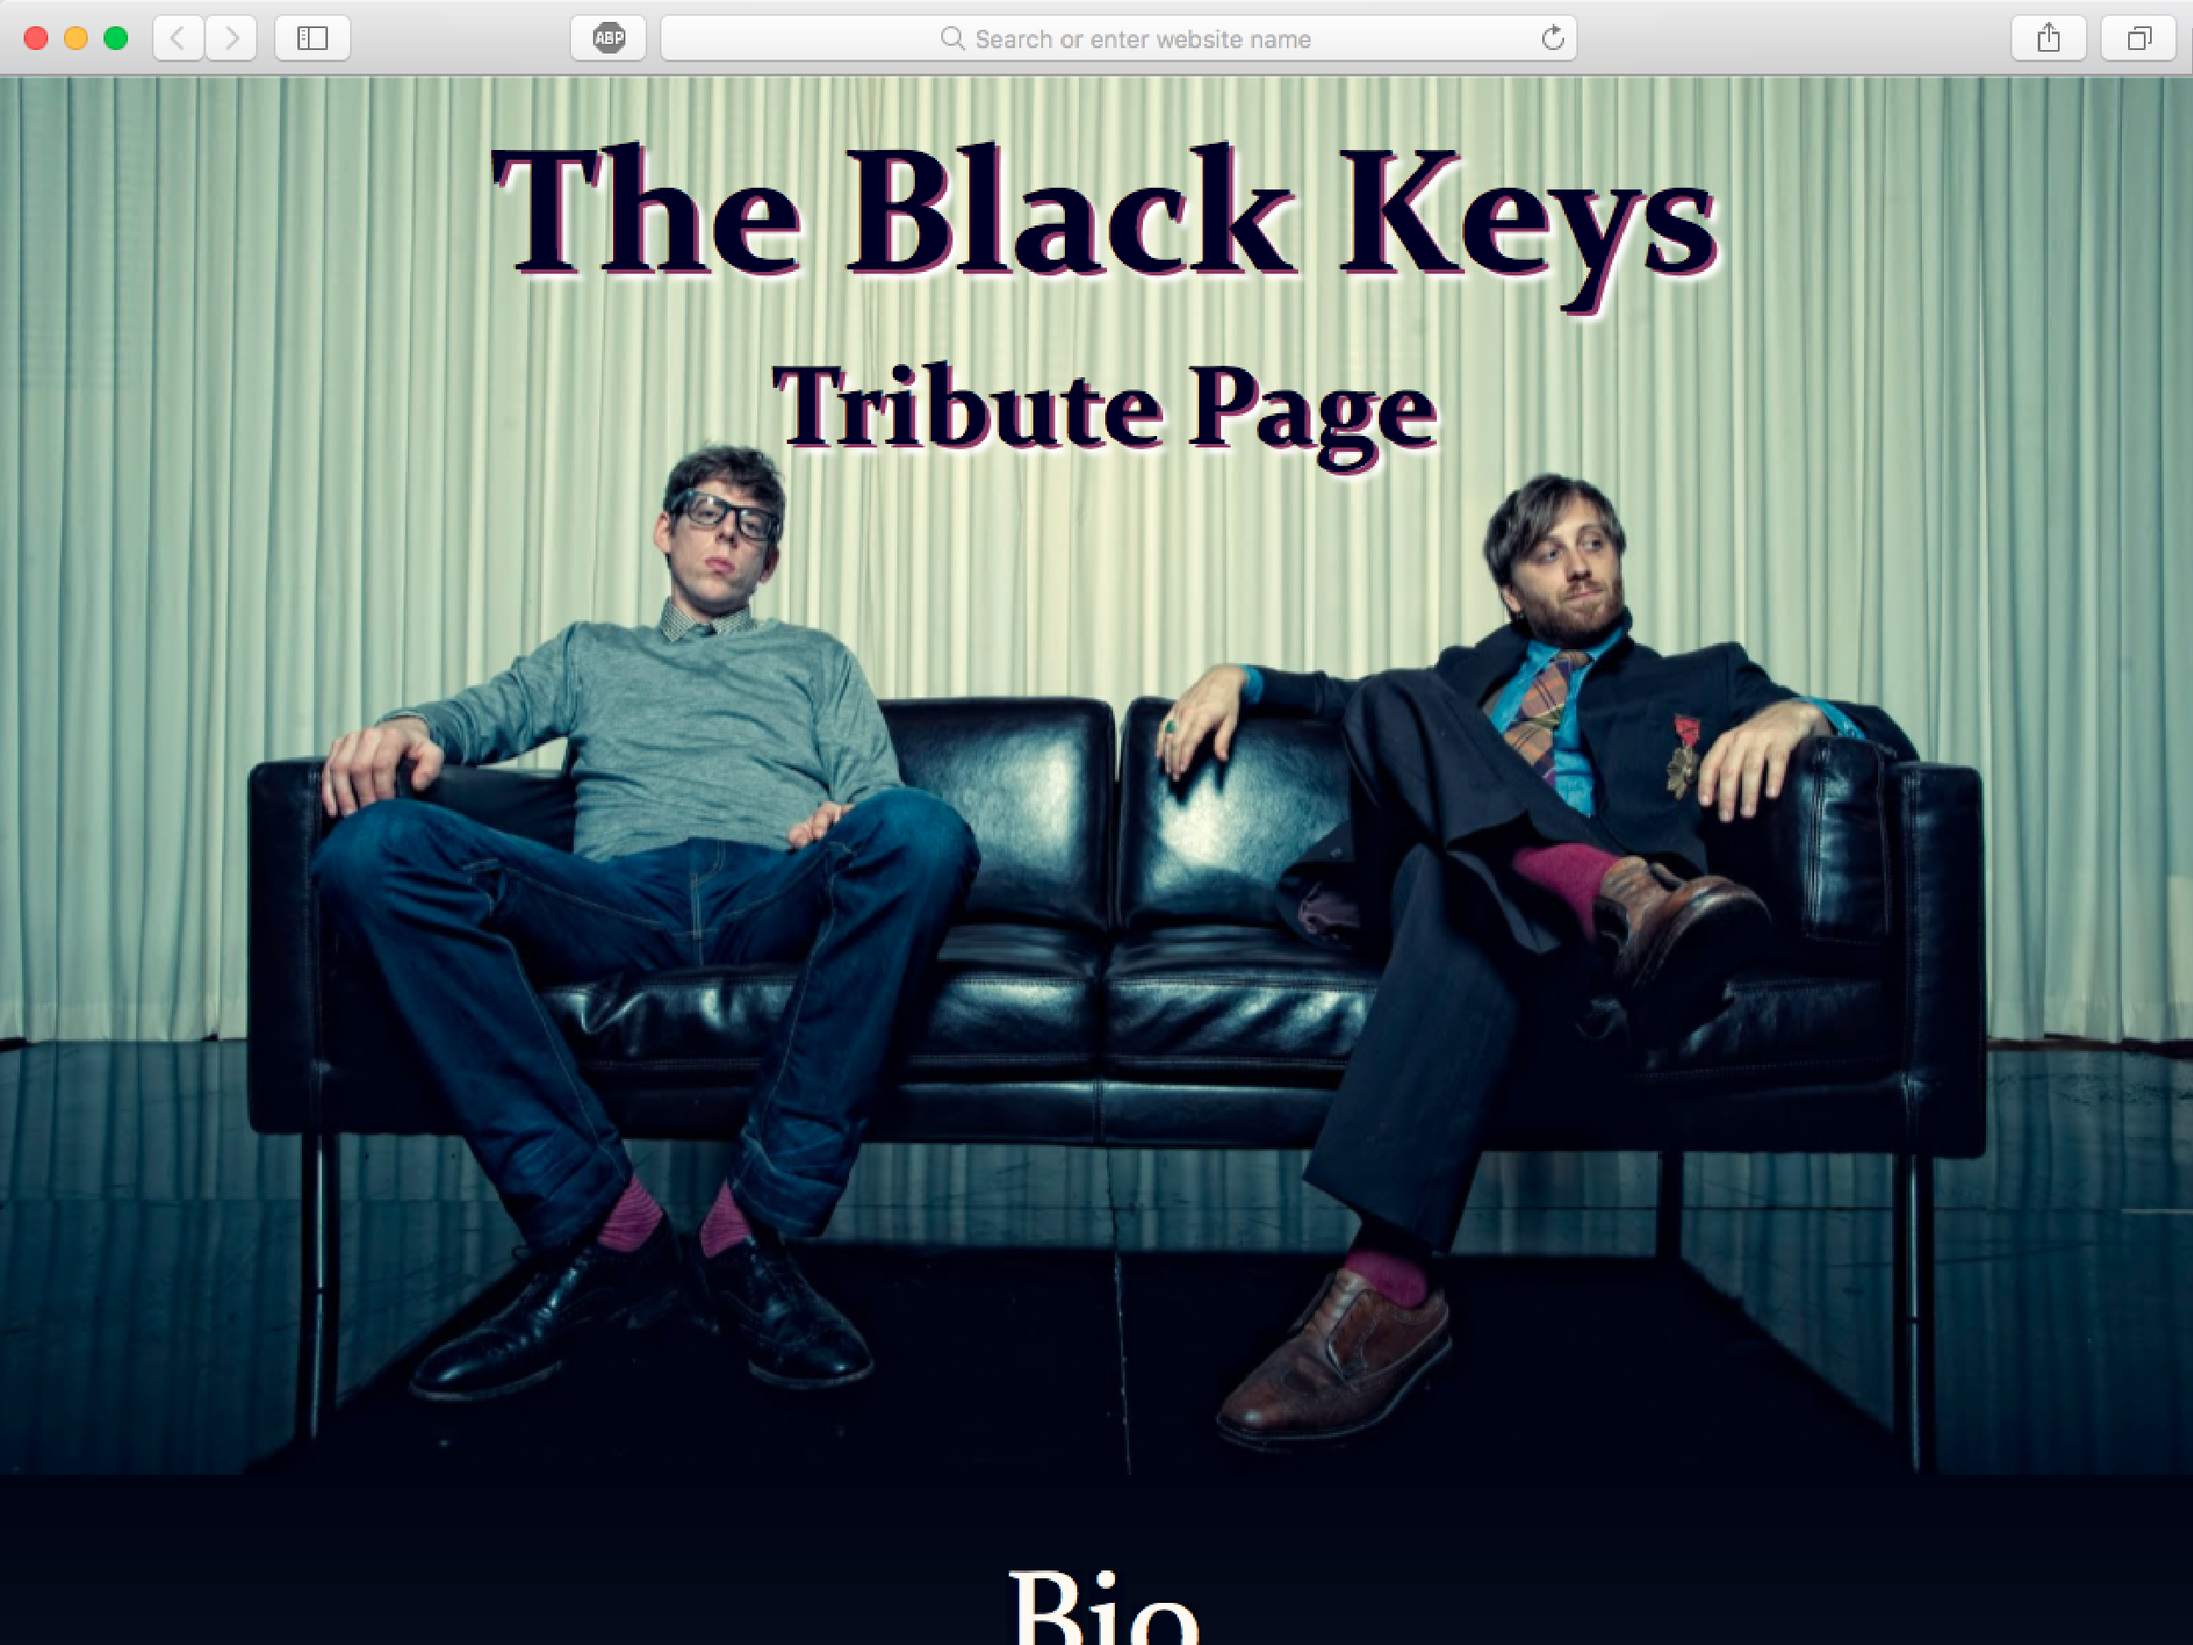
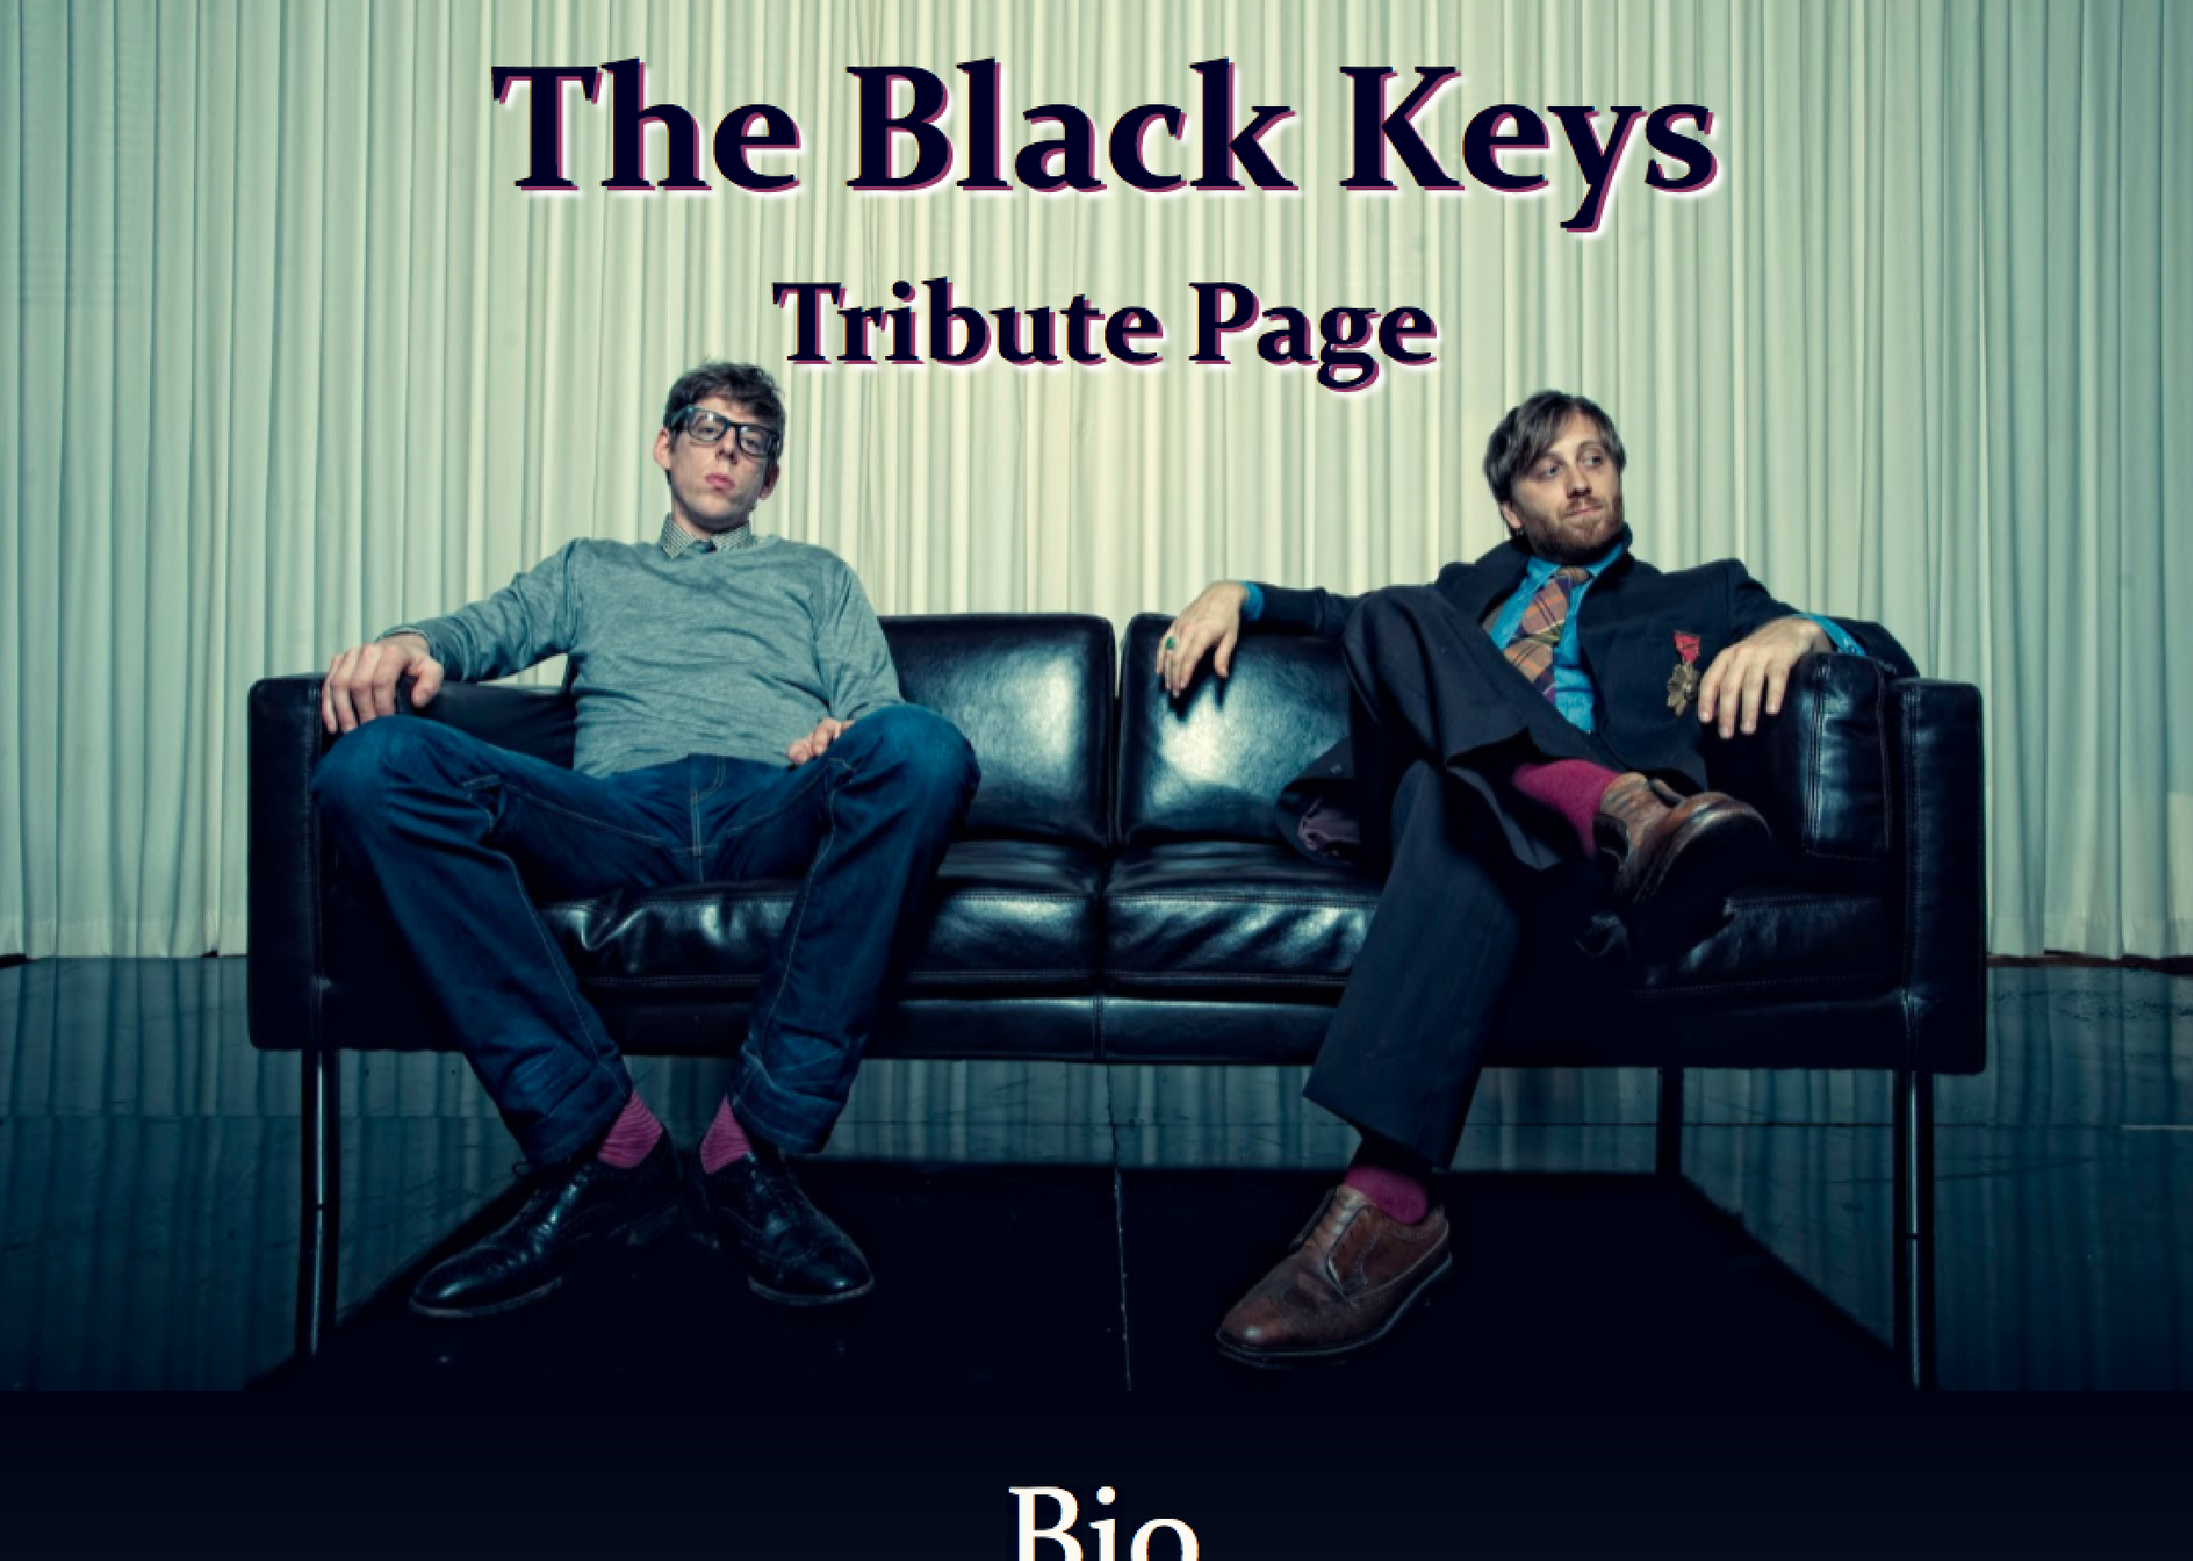
Visual Updates and Links

diff --git a/index.html b/index.html
@@ -12,9 +12,9 @@
         <meta name="viewport" content="width=device-width, initial-scale=1">
         
         <link rel="stylesheet" href="css/normalize.css">
-        <link rel="stylesheet" href="css/font-awesome.css">
+        <script src="https://use.fontawesome.com/b92681660d.js"></script>
         <link rel="stylesheet" href="css/bootstrap.min.css">
-        <link rel="stylesheet" href="css/templatemo-style.css">
+        <link rel="stylesheet" href="css/style.css">
         <script src="js/vendor/modernizr-2.6.2.min.js"></script>
     </head>
     <body>
@@ -32,13 +32,13 @@
                             </div>
                             <div class="profile-content">
                                 <h3 class="profile-title">Casey</h3>
-                                <p class="profile-description">Web Developer<br>Graphic Designer</p>
+                                <p class="profile-description">Full-Stack Web Developer<br>Visual Designer</p>
                             </div>
                             <div class="social-icons">
 								<ul>
 									<li><a href="https://github.com/caitken7"><i class="fa fa-github"></i></a></li>
 									<li><a href="https://www.linkedin.com/in/casey-aitken-5312b832/"><i class="fa fa-linkedin"></i></a></li>
-									<li><a href="https://plus.google.com/u/1/118140099072105323845"><i class="fa fa-google-plus"></i></a></li>
+									<li><a href="mailto:caseyaitken@gmail.com"><i class="fa fa-envelope"></i></a></li>
 								</ul>
 							</div> <!-- .social-icons -->
                         </div>
@@ -63,13 +63,13 @@
                     <img src="img/profile.jpg" alt="Casey">
                 </div>
                 <h3 class="profile-title">Casey Aitken</h3>
-                <p class="profile-description">Web Developer<br>Graphic Designer</p>
+                <p class="profile-description">Full-Stack Web Developer<br>Visual Designer</p>
             </div> <!-- top-section -->
             <div class="main-navigation">
                 <ul class="navigation">
-                    <li><a href="#top"><i class="fa fa-globe"></i>Welcome</a></li>
-                    <li><a href="#about"><i class="fa fa-pencil"></i>About Me</a></li>
-                    <li><a href="#projects"><i class="fa fa-paperclip"></i>My Projects</a></li>
+                    <li><a href="#top"><i class="fa fa-hand-peace-o"></i>Welcome</a></li>
+                    <li><a href="#about"><i class="fa fa-user"></i>About Me</a></li>
+                    <li><a href="#projects"><i class="fa fa-briefcase"></i>My Projects</a></li>
                     <li><a href="#contact"><i class="fa fa-link"></i>Contact Me</a></li>
                 </ul>
             </div> <!-- .main-navigation -->
@@ -77,7 +77,7 @@
                 <ul>
                     <li><a href="https://github.com/caitken7"><i class="fa fa-github"></i></a></li>
                     <li><a href="https://www.linkedin.com/in/casey-aitken-5312b832/"><i class="fa fa-linkedin"></i></a></li>
-					<li><a href="https://plus.google.com/u/1/118140099072105323845"><i class="fa fa-google-plus"></i></a></li>
+					<li><a href="mailto:caseyaitken@gmail.com"><i class="fa fa-envelope"></i></a></li>
                 </ul>
             </div> <!-- .social-icons -->
         </div> <!-- .sidebar-menu -->

diff --git a/css/style.css b/css/style.css
@@ -382,7 +382,7 @@ hr {
   width: 23%;
   height: 100%;
   position: fixed;
-  background: linear-gradient(#5dbf8a, #2d5f9e, black);
+  background: linear-gradient(#fdbb2d, #b21f1f, #1a2a6c);
   color: white;
   overflow-y: hidden;
 }
@@ -462,7 +462,7 @@ h3.profile-title {
 }
 
 .responsive-header {
-  background: linear-gradient(#5dbf8a, #2d5f9e, black);
+  background: linear-gradient(#fdbb2d, #b21f1f, #1a2a6c);
   text-align: center;
 }
 @media screen and (max-width: 992px) {
@@ -531,7 +531,7 @@ h3.profile-title {
 .banner-bg {
   padding: 260px 80px;
   position: relative;
-  background: url("../img/7.jpg");
+  background: url("../img/bijou.png");
   background-repeat: no-repeat;
   background-position: center;
   background-size: cover;
